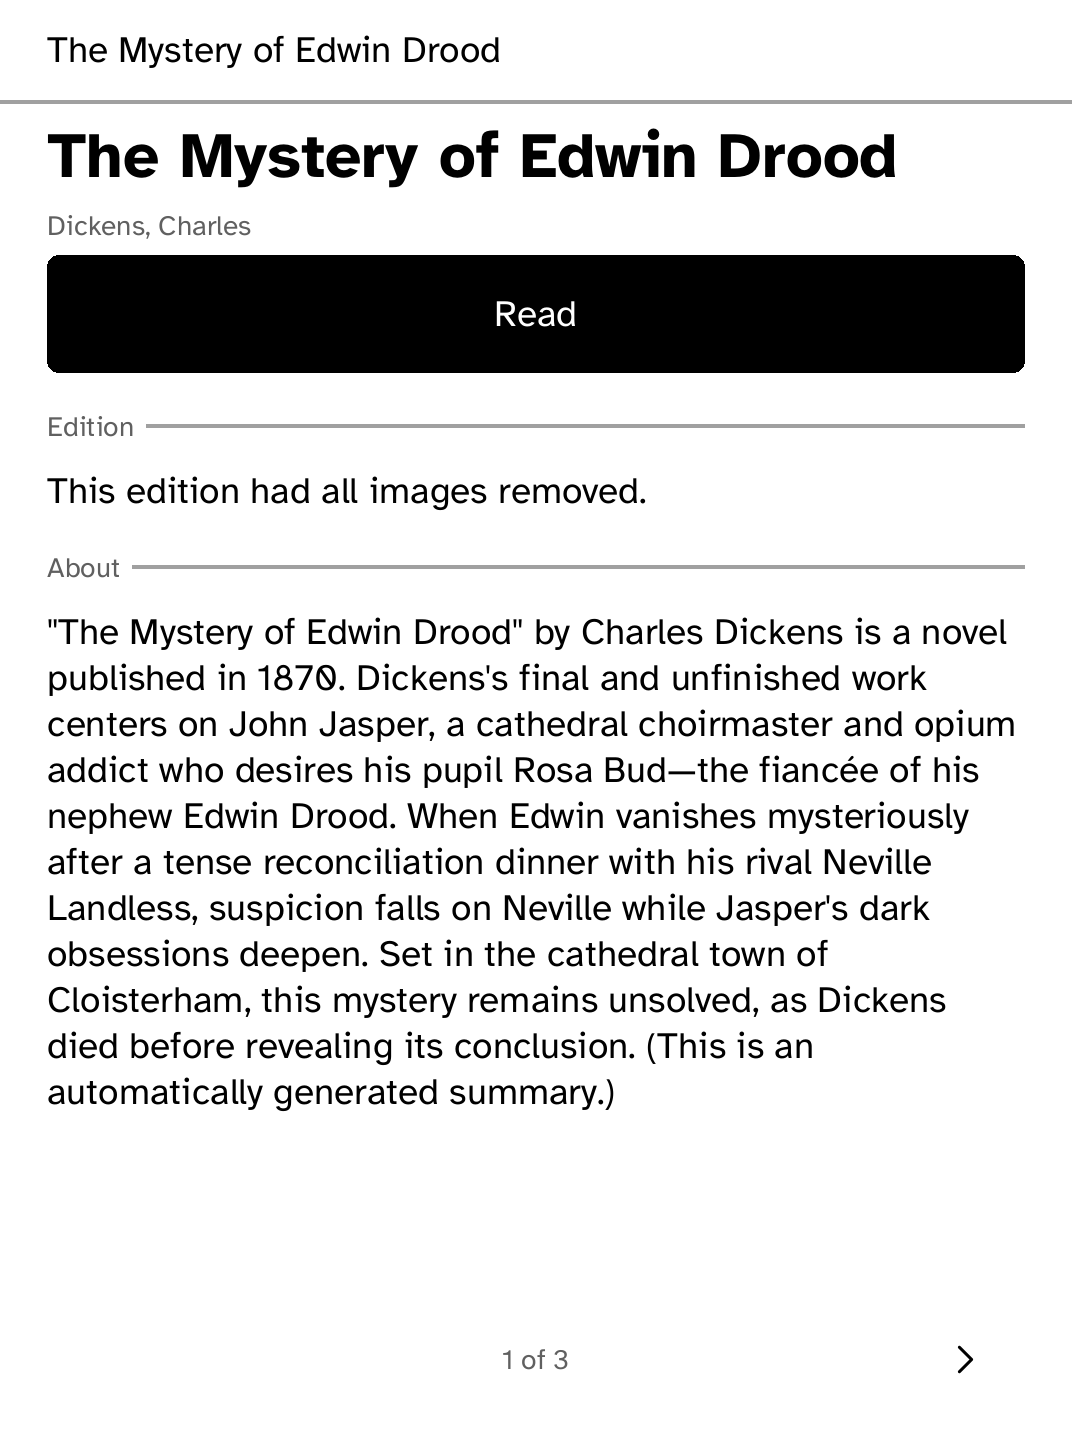
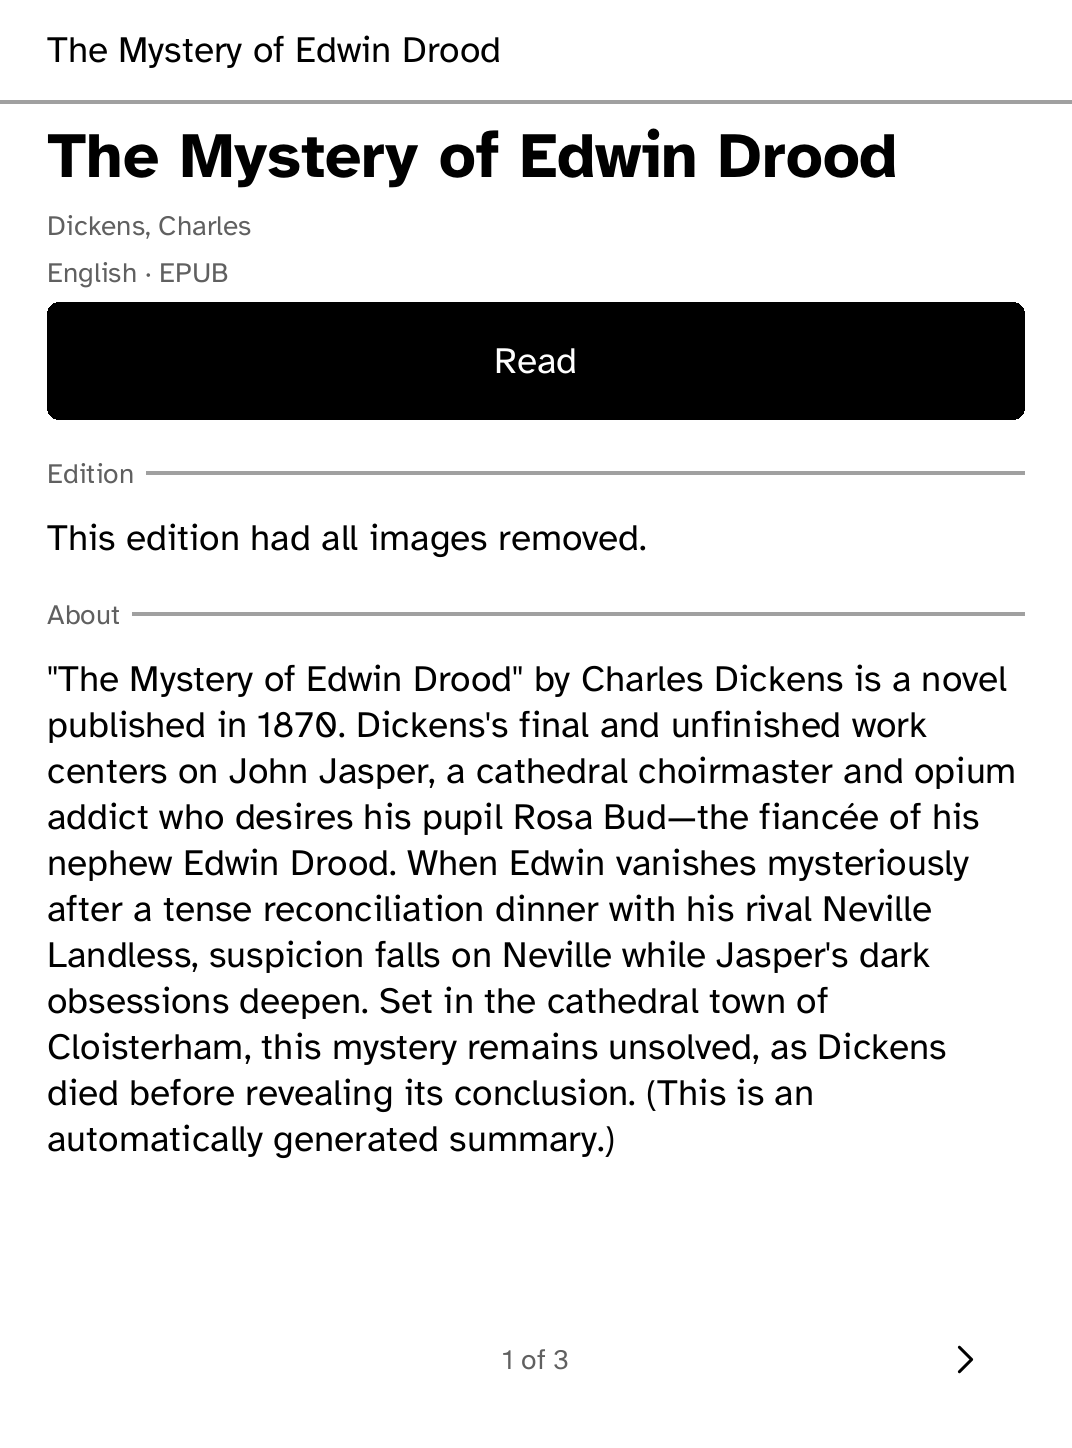
Show Gutenbird download format and readable language labels

Changed region(s): [[0.0308, 0.1554, 0.9543, 0.808]]

diff --git a/docs/apps/gutenbird/index.html b/docs/apps/gutenbird/index.html
@@ -21,7 +21,7 @@
 <meta name="twitter:description" content="Browse OPDS libraries and read their books on your Kobo. Install it on a supported Kobo e-reader with Cobalt.">
 <meta name="twitter:image" content="https://bandarlabs.github.io/Cobalt/media/site/apps/gutenbird.png">
 <meta name="twitter:image:alt" content="A shelf of books from an OPDS library on a Kobo">
-<meta http-equiv="Content-Security-Policy" content="default-src 'none'; script-src 'self' 'sha256-RYWIoTSkJDlOEnhz+H3PncFcD9pI+3tRpH9PjkscAhk='; style-src 'self'; img-src 'self'; connect-src https://cobalt-install-relay.anandabhishek.workers.dev; base-uri 'none'; form-action 'self'">
+<meta http-equiv="Content-Security-Policy" content="default-src 'none'; script-src 'self' 'sha256-xuC/2pQ4BSOq0ark4xyHroAhMZ6dF0uBXsYObCfn9/4='; style-src 'self'; img-src 'self'; connect-src https://cobalt-install-relay.anandabhishek.workers.dev; base-uri 'none'; form-action 'self'">
 <script type="application/ld+json">{
   "@context": "https://schema.org",
   "@graph": [
@@ -40,7 +40,7 @@
       "applicationSuite": "Cobalt",
       "applicationCategory": "SoftwareApplication",
       "operatingSystem": "Cobalt on supported Kobo e-readers",
-      "softwareVersion": "1.0.11",
+      "softwareVersion": "1.0.12",
       "isAccessibleForFree": true,
       "offers": {
         "@type": "Offer",
@@ -97,7 +97,7 @@
       <p class="eyebrow">Kobo app</p>
       <h1>Gutenbird</h1>
       <p class="summary">Browse OPDS libraries and read their books on your Kobo.</p>
-      <div class="meta"><span>Version 1.0.11</span><span>network, frontlight-control</span></div>
+      <div class="meta"><span>Version 1.0.12</span><span>network, frontlight-control</span></div>
     </div>
     <figure class="app-shot">
       <img src="../../media/site/apps/gutenbird.png" width="1072" height="1448" alt="A shelf of books from an OPDS library on a Kobo">

diff --git a/examples/gutenbird/src/main.rs b/examples/gutenbird/src/main.rs
@@ -1823,6 +1823,10 @@ impl Gutenbird {
             subtitle,
             Vec::<(String, String)>::new(),
         );
+        let screen = match selected_edition(publication) {
+            Some(edition) => screen.secondary(edition),
+            None => screen,
+        };
         let screen = match &self.problem {
             Some(problem) => screen.banner(BannerLevel::Attention, problem.clone()),
             None => screen,
@@ -2863,10 +2867,56 @@ fn decode_registry(bytes: &[u8]) -> Vec<Catalog> {
 /// The flat facts for the details page, said only when the catalog actually
 /// stated them. No invented reading time, no identifier relabelled as though
 /// it belonged to one catalog when the field is generic across all of them.
+fn language_name(code: &str) -> String {
+    let base = code
+        .split(['-', '_'])
+        .next()
+        .unwrap_or(code)
+        .to_ascii_lowercase();
+    let name = match base.as_str() {
+        "en" => "English",
+        "fr" => "French",
+        "de" => "German",
+        "es" => "Spanish",
+        "it" => "Italian",
+        "pt" => "Portuguese",
+        "nl" => "Dutch",
+        "pl" => "Polish",
+        "ru" => "Russian",
+        "uk" => "Ukrainian",
+        "ja" => "Japanese",
+        "zh" => "Chinese",
+        "ko" => "Korean",
+        "ar" => "Arabic",
+        "hi" => "Hindi",
+        "la" => "Latin",
+        _ => return code.to_owned(),
+    };
+    if code.contains(['-', '_']) {
+        format!("{name} ({code})")
+    } else {
+        name.to_owned()
+    }
+}
+
+fn selected_edition(publication: &Publication) -> Option<String> {
+    let acquisition = publication.best_acquisition()?;
+    let format = match download_kind(acquisition.media_type.as_deref()) {
+        DownloadKind::Epub => "EPUB",
+        DownloadKind::Text => "Plain text",
+    };
+    Some(match publication.language.as_deref() {
+        Some(language) if !language.trim().is_empty() => {
+            format!("{} · {format}", language_name(language))
+        }
+        _ => format.to_owned(),
+    })
+}
+
 fn detail_facts(publication: &Publication) -> Vec<(String, String)> {
     let mut facts = Vec::new();
     if let Some(language) = &publication.language {
-        facts.push(("Language".to_owned(), language.clone()));
+        facts.push(("Language".to_owned(), language_name(language)));
     }
     if let Some(issued) = publication
         .issued
@@ -5819,6 +5869,35 @@ Please read this before you distribute or use this work.\n";
     // -----------------------------------------------------------------
     // Parity: the same catalog, twice
     // -----------------------------------------------------------------
+
+    #[test]
+    fn edition_label_matches_the_download_and_preserves_language_variants() {
+        let mut book = publication(
+            "Example",
+            vec![
+                text_acquisition("https://x/book.txt"),
+                epub_acquisition("https://x/book.epub"),
+            ],
+        );
+        book.language = Some("en".into());
+        assert_eq!(
+            super::selected_edition(&book).as_deref(),
+            Some("English · EPUB")
+        );
+        book.language = Some("pt-BR".into());
+        assert_eq!(
+            super::selected_edition(&book).as_deref(),
+            Some("Portuguese (pt-BR) · EPUB")
+        );
+        book.acquisition = vec![text_acquisition("https://x/book.txt")];
+        book.language = Some("qaa".into());
+        assert_eq!(
+            super::selected_edition(&book).as_deref(),
+            Some("qaa · Plain text")
+        );
+        book.acquisition.clear();
+        assert!(super::selected_edition(&book).is_none());
+    }
 
     #[test]
     fn catalog_metadata_is_not_presented_as_the_book_summary() {

diff --git a/docs/quality/validation.md b/docs/quality/validation.md
@@ -2384,3 +2384,18 @@ This is a rendered fixture check, not a live download/offline-reopen journey.
 GUTEN-02 through GUTEN-06 remain open. Manifest 1.0.11 and generated app page
 are updated. Evidence: `evidence/gutenbird-summary/detail-1.png` and subsequent
 pages. The font dependency is test-only.
+
+
+### Gutenbird selected language and format (partial GUTEN-02)
+
+The first detail page now shows the selected format and language beside Read.
+It calls the same best-acquisition selection used by downloading. Common
+language codes have readable names; region/script tags and unknown codes are
+preserved. Details uses the same language formatter.
+
+All 88 app tests and strict all-target Clippy passed, including EPUB preference,
+plain-text fallback, regional tags, unknown codes and absence of a download.
+The runtime-font fixture captures were refreshed and inspected. Existing
+pagination checks cover profiles, orientations and text scales. Manifest
+1.0.12 and generated catalog page are updated. This is selected-edition
+visibility, not an edition chooser; GUTEN-02 remains open for that work.

diff --git a/examples/gutenbird/README.md b/examples/gutenbird/README.md
@@ -90,3 +90,10 @@ remain in their own **Edition** section. Summary provenance is retained, and
 ordinary descriptions are unchanged.
 
 ![Book description and edition notice](../../docs/quality/evidence/gutenbird-summary/detail-1.png)
+
+
+The detail header shows the language and the format selected for **Read**,
+using the same acquisition choice as the downloader. Common language codes
+are expanded; regional/script tags are retained beside the name, and unknown
+codes are shown unchanged. This describes the selected download; it does not
+add an edition chooser.
